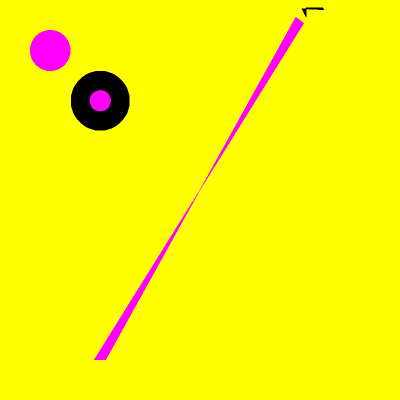
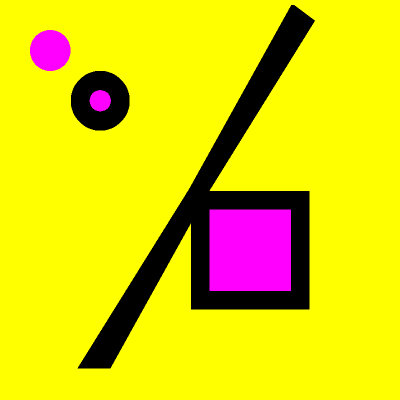
a lot of rewriting, mainly in geom_line.cpp

Changed region(s): [[0.18, 0.0, 0.81, 0.93]]

diff --git a/sources/curves/line.cpp b/sources/curves/line.cpp
@@ -6,29 +6,38 @@ using namespace glib;
 using namespace std;
 
 line::line(point a, point b) : 
-  _a(a),
-  _b(b) {
+  _a(a.trunc()),
+  _b(b.trunc()) {
 }
 
+bool
+line::width_bigger() const {
+	return (__abs(_a.x-_b.x) > __abs(_a.y-_b.y));
+}
+
+bool
+line::switch_points() const {
+	return ((width_bigger())?(_b.x>_a.x):(_b.y>_a.y));
+}
 
 list<moved_arrays>
 line::get_arrays() {
 	//algoritmus nekde odsud http://cgg.ms.mff.cuni.cz/~pepca/, zrovna to nebezi
 	
-	bool width_bigger = (__abs(_a.x-_b.x) > __abs(_a.y-_b.y));
+	bool is_width_bigger = width_bigger();
 	
-	bool switch_points = ((width_bigger)?(_b.x>_a.x):(_b.y>_a.y));
+	bool is_switch_points = switch_points();
 	
-	point begin_p = (switch_points)?(_a.trunc()):(_b.trunc());
-	point end_p = (switch_points)?(_b.trunc()):(_a.trunc());
+	point begin_p = (is_switch_points)?(_a.trunc()):(_b.trunc());
+	point end_p = (is_switch_points)?(_b.trunc()):(_a.trunc());
 	
-	bool increasing = (width_bigger ? ((end_p.y-begin_p.y)>0) : ((end_p.x-begin_p.x)>0));
+	bool increasing = (is_width_bigger ? ((end_p.y-begin_p.y)>0) : ((end_p.x-begin_p.x)>0));
 	
 	moved_arrays res(__minimum(begin_p.y,end_p.y),__maximum(begin_p.y, end_p.y));
 	
-	glib_int lower_size = static_cast<glib_int>(width_bigger?__abs(begin_p.y-end_p.y):__abs(begin_p.x-end_p.x));
+	glib_int lower_size = static_cast<glib_int>(is_width_bigger?__abs(begin_p.y-end_p.y):__abs(begin_p.x-end_p.x));
 	
-	glib_int bigger_size = static_cast<glib_int>(width_bigger?__abs(begin_p.x-end_p.x):__abs(begin_p.y-end_p.y));
+	glib_int bigger_size = static_cast<glib_int>(is_width_bigger?__abs(begin_p.x-end_p.x):__abs(begin_p.y-end_p.y));
 	
 	
 	glib_int D = 2*lower_size - bigger_size;
@@ -39,8 +48,8 @@ line::get_arrays() {
 	point moving = begin_p;
 	res.set(moving.x, moving.y);
 	
-	glib_float& moving_bigger = width_bigger?moving.x:moving.y;
-	glib_float& moving_lower = width_bigger?moving.y:moving.x;
+	glib_float& moving_bigger = is_width_bigger?moving.x:moving.y;
+	glib_float& moving_lower = is_width_bigger?moving.y:moving.x;
 	
 
 	
@@ -64,10 +73,10 @@ line::get_arrays() {
 }
 
 
-glib_int line::get_min_y() const {return __minimum(_a.y,_b.y);}
+glib_int line::get_min_y() const {return __minimum(_a.y,_b.y)-5;}
 glib_int line::get_max_y() const {return __maximum(_a.y,_b.y)+2;}
 
-glib_int line::get_min_x() const {return __minimum(_a.x,_b.x);}
+glib_int line::get_min_x() const {return __minimum(_a.x,_b.x)-5;}
 glib_int line::get_max_x() const {return __maximum(_a.x,_b.x)+2;}
 
 shape_type 
@@ -77,11 +86,16 @@ line::get_thick_line(const glib_float thickness, const curve* const previous, co
 	point c;
 	point d;
 	
+	geom_line my_geom_line = /*(switch_points())?(geom_line(_b,_a)):*/(geom_line(_a,_b));
+	
 	if (const line* previous_line = dynamic_cast<const line*>(previous)) {
-		geom_line res = (geom_line(_a,_b)).parallel_intersection(geom_line(previous_line->_a, previous_line->_b),thickness/2);
+		
+		geom_line previous_geom_line = /*(previous_line->switch_points())?(geom_line(previous_line->_b, previous_line->_a)):*/(geom_line(previous_line->_a, previous_line->_b));
+		
+		geom_line res = my_geom_line.parallel_intersection(previous_geom_line, thickness/2);
 		//prvni vrati VLEVO, pak VPRAVO
-		a=res.a;
-		b=res.b;
+		b=res.a;
+		a=res.b;
 	} else {
 		geom_line this_gl = geom_line(_a, _b);
 		a = this_gl.right_angle_a(1,thickness/2);
@@ -89,9 +103,13 @@ line::get_thick_line(const glib_float thickness, const curve* const previous, co
 	}
 	
 	if (const line* next_line = dynamic_cast<const line*>(next)) {
-		std::cout<<"WELCOME TO THE maSChiENEEEEEE\n========\n";
-		geom_line res = (geom_line(_a,_b)).parallel_intersection(geom_line(next_line->_a, next_line->_b),thickness/2);
-		std::cout<<"zde vznika c jako intersection paralelu usecky, dane body _a:"<<_a.x<<","<<_a.y<<" a _b:"<<_b.x<<","<<_b.y<<"; a dalsi usecka je dana body _a:"<<(next_line->_a).x<<","<<(next_line->_a).y<<" a _b:"<<(next_line->_b).x<<","<<(next_line->_b).y<<" s tloustkou "<<thickness/2<<", resp. jako jeden z bodu.\n=====\n";
+	
+		geom_line next_geom_line = /*(next_line->switch_points())?(geom_line(next_line->_b, next_line->_a)):*/(geom_line(next_line->_a, next_line->_b));
+		
+		geom_line res = my_geom_line.parallel_intersection(next_geom_line, thickness/2);
+	
+	
+	//	std::cout<<"zde vznika c jako intersection paralelu usecky, dane body _a:"<<_a.x<<","<<_a.y<<" a _b:"<<_b.x<<","<<_b.y<<"; a dalsi usecka je dana body _a:"<<(next_line->_a).x<<","<<(next_line->_a).y<<" a _b:"<<(next_line->_b).x<<","<<(next_line->_b).y<<" s tloustkou "<<thickness/2<<", resp. jako jeden z bodu.\n=====\n";
 		c = res.a;
 		d = res.b;
 	} else {

diff --git a/sources/geom_line.cpp b/sources/geom_line.cpp
@@ -30,36 +30,32 @@ geom_line::intersection(const geom_line& another)const {
 	
 	
 	
-	std::cout<<"! pocitam intersection mezi dannou:"<<a.x<<","<<a.y<<";;"<<b.x<<","<<b.y<<"a "<<another.a.x<<","<<another.a.y<<";;"<<another.b.x<<","<<another.b.y<<".\n";
 	if (__abs(b.y - a.y)<0.1) {
 		
 		glib_float another_dxy = (another.b.x - another.a.x)/(another.b.y - another.a.y);
 		glib_float diff = b.y - another.b.y;
-		std::cout<<"a vysel mi metodou 1 "<<another.b.x + diff*another_dxy<<", "<<another.b.y + diff<<"!\n=========\n";
 		return point(another.b.x + diff*another_dxy, another.b.y + diff);
 		
 	} else if (__abs(another.b.y - another.a.y)<0.1) {
 		
 		glib_float me_dxy = (b.x - a.x)/(b.y - a.y);
 		glib_float diff = another.b.y - b.y;
-		std::cout<<"a vysel mi metodou 2 "<<b.x + diff*me_dxy<<", "<<b.y + diff<<"!\n=========\n";
 		return point(b.x + diff*me_dxy, b.y + diff);
 		
 	} else {
 		
-		glib_float me_dxy = (b.x - a.x)/(b.y - a.y);
-		glib_float another_dxy = (another.b.x - another.a.x)/(another.b.y - another.a.y);
-		std::cout<<"another_dxy vychazi "<<another_dxy<<"\n";
-		std::cout<<"another_dxy*(b.y - another.b.y) vychazi "<<another_dxy*(b.y - another.b.y)<<"\n";
-		std::cout<<"(another_dxy*(b.y - another.b.y) - (b.x - another.b.x)) vychazi" << (another_dxy*(b.y - another.b.y) - (b.x - another.b.x)) << "\n";
-		std::cout<<"(me_dxy - another_dxy) vychazi "<<(me_dxy - another_dxy)<<"\n";
+		//vezmu si caru jako funkci podle y, f(y)=ky+c
 		
-		glib_float h = (another_dxy*(b.y - another.b.y) - (b.x - another.b.x))/(me_dxy - another_dxy);
-		std::cout<<"h vychazi "<<h<<"\n";
+		glib_float k = (b.x-a.x)/(b.y-a.y);
+		glib_float c = a.x-k*(a.y);
+		glib_float another_k = (another.b.x-another.a.x)/(another.b.y-another.a.y);
+		glib_float another_c = another.a.x-another_k*(another.a.y);
 		
-		std::cout<<"a vysel mi metodou 3 "<<b.x + h*me_dxy<<", "<<b.y + h<<"!\n=========\n";
+		glib_float y=(another_c-c)/(k-another_k);
+		if (__abs(k - another_k)<0.1) {throw 1;}
+		glib_float x=k*y+c;
 		
-		return point(b.x + h*me_dxy, b.y + h);
+		return point(x,y);
 		
 	}
 	
@@ -67,17 +63,27 @@ geom_line::intersection(const geom_line& another)const {
 
 geom_line
 geom_line::parallel_intersection(const geom_line& another, const glib_float distance) const{
-	return geom_line(parallel(true, distance).intersection(another.parallel(false,distance)), parallel(false, distance).intersection(another.parallel(true,distance)));
+	geom_line my_right_parallel = parallel(false, distance);
+	geom_line another_right_parallel = another.parallel(false,distance);
+	point first_intersection = my_right_parallel.intersection(another_right_parallel);
+	
+	geom_line my_left_parallel =  parallel(true, distance);
+	geom_line another_left_parallel = another.parallel(true,distance);
+	point second_intersection = my_left_parallel.intersection(another_left_parallel);
+	
+	return geom_line(first_intersection, second_intersection);
 }
 
 geom_line 
 geom_line::normalised(const glib_float length) const {
-	glib_float my_width = (a.x-b.x);
-	glib_float my_height = (a.y-b.y);
+	glib_float my_width = (b.x-a.x);
+	glib_float my_height = (b.y-a.y);
 	
 	glib_float my_length = static_cast<glib_float>( sqrt(static_cast<double>(my_width*my_width + my_height*my_height)));
 	
-	return geom_line(a, point(a.x+(length/my_length)*my_width, a.y+(length/my_length)*my_height));
+	glib_float quoc = (length/my_length);
+	
+	return geom_line(a, point(a.x+quoc*my_width, a.y+quoc*my_height));
 }
 
 point
@@ -85,7 +91,7 @@ geom_line::right_angle_a(bool clockwise, const glib_float length) const {
 	glib_float my_width = b.x - a.x;
 	glib_float my_height = b.y - a.y;
 	geom_line res;
-	if (clockwise) {
+	if (!clockwise) {
 		res= geom_line(a, point(a.x-my_height, a.y + my_width));
 	} else {
 		res= geom_line(a, point(a.x + my_height, a.y - my_width));
@@ -105,7 +111,8 @@ geom_line::right_angle_b(bool clockwise, const glib_float length) const {
 	} else {
 		res= geom_line(b, point(b.x + my_height, b.y - my_width));
 	}
-	return res.normalised(length).b;
+	point respoint = res.normalised(length).b;
+	return respoint;
 	
 	/*
 	

diff --git a/sources/shape.cpp b/sources/shape.cpp
@@ -74,7 +74,6 @@ shape::get_pixels(const glib_int height, const glib_int width, const bool antial
 	plane<RGBa> result(min_y, max_y);
 	//------kraje
 	
-	int shit=0;
 	if (_style._line_size != 0) {
 		for (i=begin;i!=end; ++i) {
 		//for (int a = 0;a<1; ++i,++a) {	
@@ -108,8 +107,8 @@ shape::get_pixels(const glib_int height, const glib_int width, const bool antial
 					next = *j;
 				}
 			
-				if (shit==0) {shape_type okraj = (**i).get_thick_line((antialias?2:1)*_style._line_size, previous, next);
-				line = paint(&(okraj), min_y, max_y);}
+				shape_type okraj = (**i).get_thick_line((antialias?2:1)*_style._line_size, previous, next);
+				line = paint(&(okraj), min_y, max_y);
 				//result.add(().flatten_plane<RGBa>(_style._line_color, true));
 			} else {
 				glib_int thickness = static_cast<glib_int>((antialias?2:1)*(_style._line_size));
@@ -135,7 +134,7 @@ shape::get_pixels(const glib_int height, const glib_int width, const bool antial
 					}
 				}
 			}
-			if (shit++==0) result.add(line.flatten_plane<RGBa>(_style._line_color, true)); 
+			result.add(line.flatten_plane<RGBa>(_style._line_color, true)); 
 		}
 	}
 	

diff --git a/sources/main.cpp b/sources/main.cpp
@@ -15,10 +15,10 @@ int main () {
 	novy.push_back(style, glib::disk(glib::point(50,50), 20));
 	
 	novy.push_back(style2, glib::disk(glib::point(100,100), 20));
-	novy.push_front(style2, glib::polygon(glib::point(303.897,23.19763), glib::point(295.964,17.02906), glib::point(105.753,359.933), glib::point(94.261,359.759)));
-		novy.push_front(style, glib::polygon(glib::point(303.897,23.19763), glib::point(295.964,17.02906), glib::point(105.753,359.933), glib::point(94.261,359.759)));
+	//novy.push_front(style2, glib::polygon(glib::point(303.897,23.19763), glib::point(295.964,17.02906), glib::point(94.261,359.759), glib::point(105.753,359.933)));
+		novy.push_front(style2, glib::polygon(glib::point(303.897,23.19763), glib::point(295.964,17.02906), glib::point(105.753,359.933), glib::point(94.261,359.759)));
 	
-	//novy.push_front(style2, glib::polygon(glib::point(200,200), glib::point(200,300), glib::point(300,300), glib::point(300,200)));
+	novy.push_front(style2, glib::polygon(glib::point(200,200), glib::point(200,300), glib::point(300,300), glib::point(300,200)));
 	
 	glib::png_paint("hear.png", novy);
 	

diff --git a/sources/point.cpp b/sources/point.cpp
@@ -8,7 +8,7 @@ point::point(glib_float new_x, glib_float new_y):x(new_x),y(new_y) {}
 point::point(glib_int new_x, glib_int new_y):x(new_x),y(new_y) {}
 point::point(int new_x, int new_y):x(new_x),y(new_y) {}
 
-point::point(double new_x, double new_y):x(static_cast<glib_float>(new_x)),y(static_cast<glib_float>(new_y)) {}
+//point::point(double new_x, double new_y):x(static_cast<glib_float>(new_x)),y(static_cast<glib_float>(new_y)) {}
 
 point::point():x(0), y(0) { }
 
@@ -83,11 +83,11 @@ point
 point::operator*(const int n) const {
 	return point(x*n, y*n);
 }
-
+/*
 point 
 point::operator*(const double n) const {
 	return point(x*n, y*n);
-}
+}*/
 
 point
 point::trunc() const {

diff --git a/sources/moved_arrays.cpp b/sources/moved_arrays.cpp
@@ -52,8 +52,6 @@ moved_arrays::set(const glib_int x, const glib_int y) {
 	const glib_int my_y = y - _min_y;
 	
 	if ((y < _min_y) || (y > _max_y)) {
-		std::cout <<"chyba lol chci na "<<y<<"a _min_y je "<<_min_y<<"a _max_y je "<<_max_y<<" lol\n";
-		
 		throw 1;
 	}
 	if (_first) {
@@ -88,13 +86,13 @@ moved_arrays::set(const glib_int x, const glib_int y) {
 		_ends[my_y] = x;
 	}
 }
-
+/*
 void
 moved_arrays::set(const glib_float x, const glib_float y) {
 	set(static_cast<glib_int>(x), static_cast<glib_int>(y));
 	
 	//set(static_cast<glib_int>(x+0.5), static_cast<glib_int>(y+0.5));
-}
+}*/
 
 void
 moved_arrays::set(const double x, const double y) {

diff --git a/headers/point.h b/headers/point.h
@@ -18,7 +18,7 @@ namespace glib {
 		point(glib_float new_x, glib_float new_y);
 		point(glib_int new_x, glib_int new_y);
 		point(int _x, int _y); 
-		point(double _x, double _y);
+		//point(double _x, double _y);
 		
 		point();
 			//(0,0)
@@ -36,7 +36,7 @@ namespace glib {
 		point operator*(const glib_float n) const;
 		point operator*(const glib_int n) const;	
 		point operator*(const int n) const;
-		point operator*(const double n) const;
+		//point operator*(const double n) const;
 			//Vynasob dalsim cislem (vzdy ale jenom cislem!)
 			
 			

diff --git a/sources/all_shapes.cpp b/sources/all_shapes.cpp
@@ -20,7 +20,7 @@ polygon::polygon(const point& a, const point& b, const point&c):shape_type(1,1) 
 }
 		
 polygon::polygon(const point& a, const point& b, const point& c, const point& d):shape_type(1,1) {
-	std::cout<<"Hola hej! vytvarim polygon a="<<a.x<<","<<a.y<<";; b="<<b.x<<","<<b.y<<";;; c="<<c.x<<","<<c.y<<";;;d="<<d.x<<","<<d.y<<"!\n";
+	
 	_curves.push_back(new line(a,b));
 	_curves.push_back(new line(b,c));
 	_curves.push_back(new line(c,d));

diff --git a/headers/types.h b/headers/types.h
@@ -10,7 +10,7 @@
  #include <vector>
 #include <map>
 #include <string>
-#include <iostream>
+//#include <iostream>
 #include <list>
 
 #define __PI (4*atan(1))
@@ -39,7 +39,7 @@ namespace glib {
 	typedef unsigned long glib_uint;
 	typedef long glib_int; 
 	typedef unsigned char glib_component;
-	typedef float glib_float;
+	typedef double glib_float;
 
 }	
 	

diff --git a/headers/moved_arrays.h b/headers/moved_arrays.h
@@ -41,7 +41,7 @@ namespace glib {
 		
 		void set(const glib_int x, const glib_int y);
 		void set(const glib_float x, const glib_float y);
-		void set(const double x, const double y);
+		//void set(const double x, const double y);
 		
 		bool is_set(const glib_int y) const;
 		bool is_near(const glib_int x, const glib_int y) const;

diff --git a/headers/curves/line.h b/headers/curves/line.h
@@ -16,6 +16,9 @@ namespace glib{
 		
 	public:
 		
+		bool width_bigger() const;
+		bool switch_points() const;
+		
 			//vrati prvni
 		
 		line(point a, point b);
